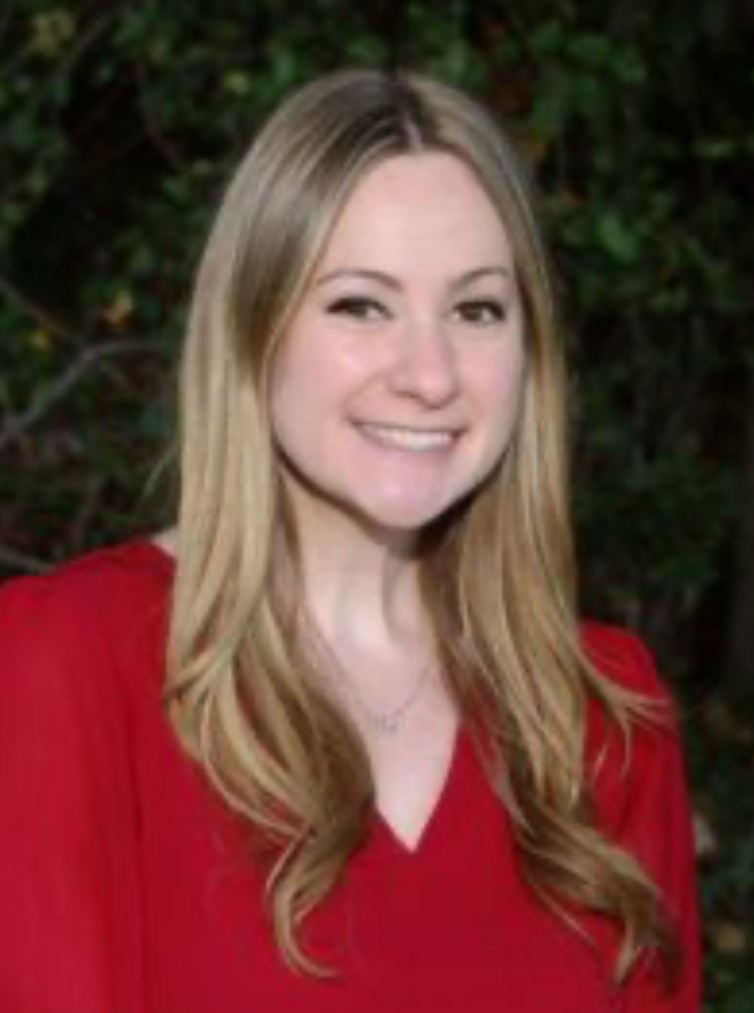
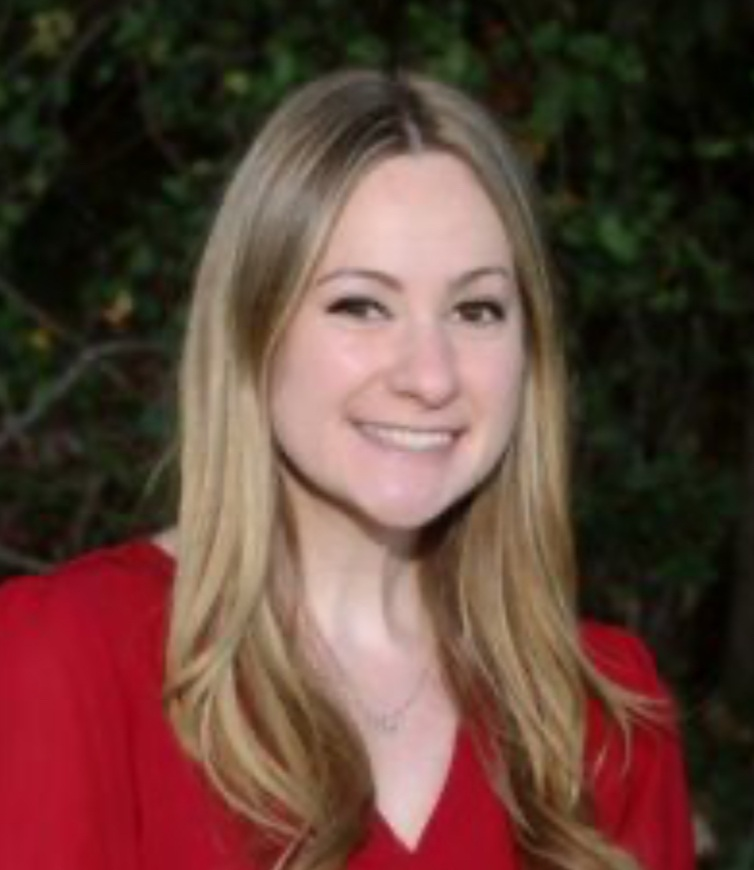
new member added

diff --git a/UMRPublicSPA/src/app/about/about.component.html b/UMRPublicSPA/src/app/about/about.component.html
@@ -119,7 +119,7 @@
           <!--Sarina Cohn-->
           <div class="info">
             <div class="member item">
-              <img src="assets/images/SarinaCohn.jpeg" alt="">
+              <img src="assets/images/SarinaCohn.jpeg" alt="" style="object-fit:cover">
               <div class="details">
                 <p class="text-center"><a href="assets/pdf/SarinaCohn.pdf" target="_blank" class="btn btn btn-default">View Resume</a> </p>
               </div>
